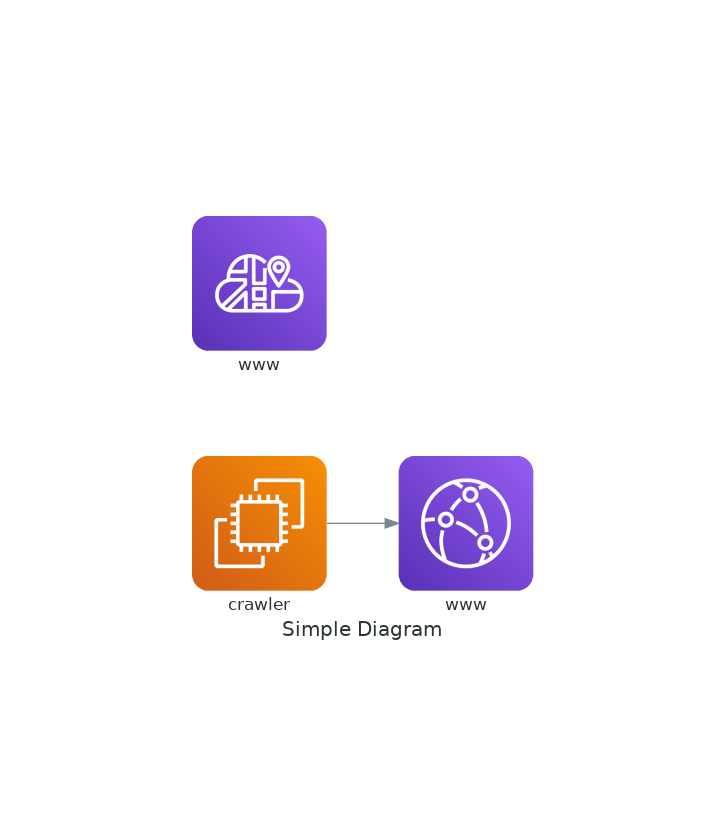
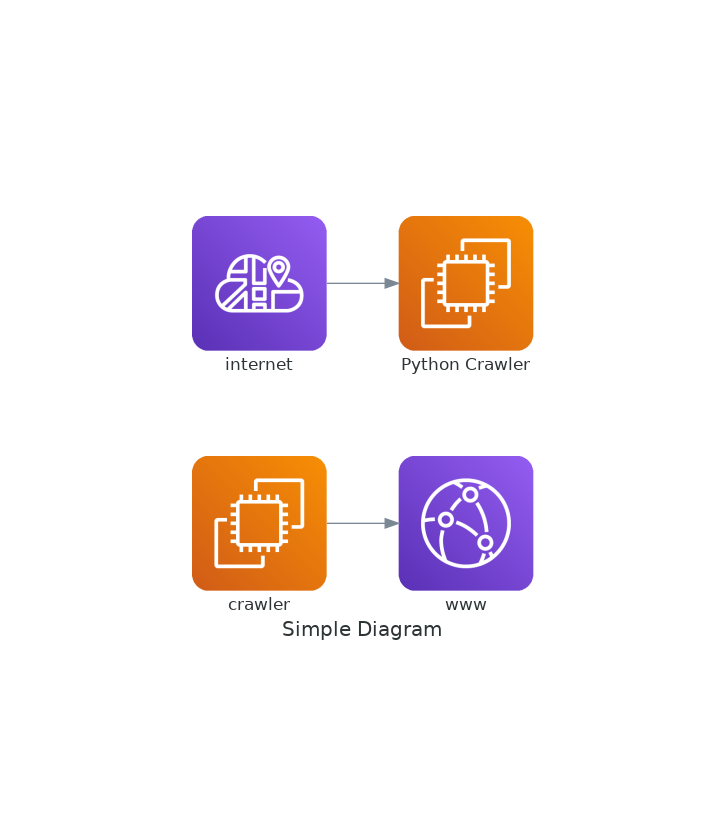
2nd commit

Changed region(s): [[0.5159, 0.2476, 0.7586, 0.4643], [0.3034, 0.4024, 0.3945, 0.4643]]

diff --git a/infra_diagram.py b/infra_diagram.py
@@ -4,5 +4,5 @@ from diagrams.aws.network import CloudFront
 from diagrams.aws.network import CloudMap
 
 with Diagram('Simple Diagram'):
-    EC2('crawler') >> CloudFront('www')
-    CloudMap('www')
+    
+    CloudMap('internet') >> EC2('Python Crawler')
